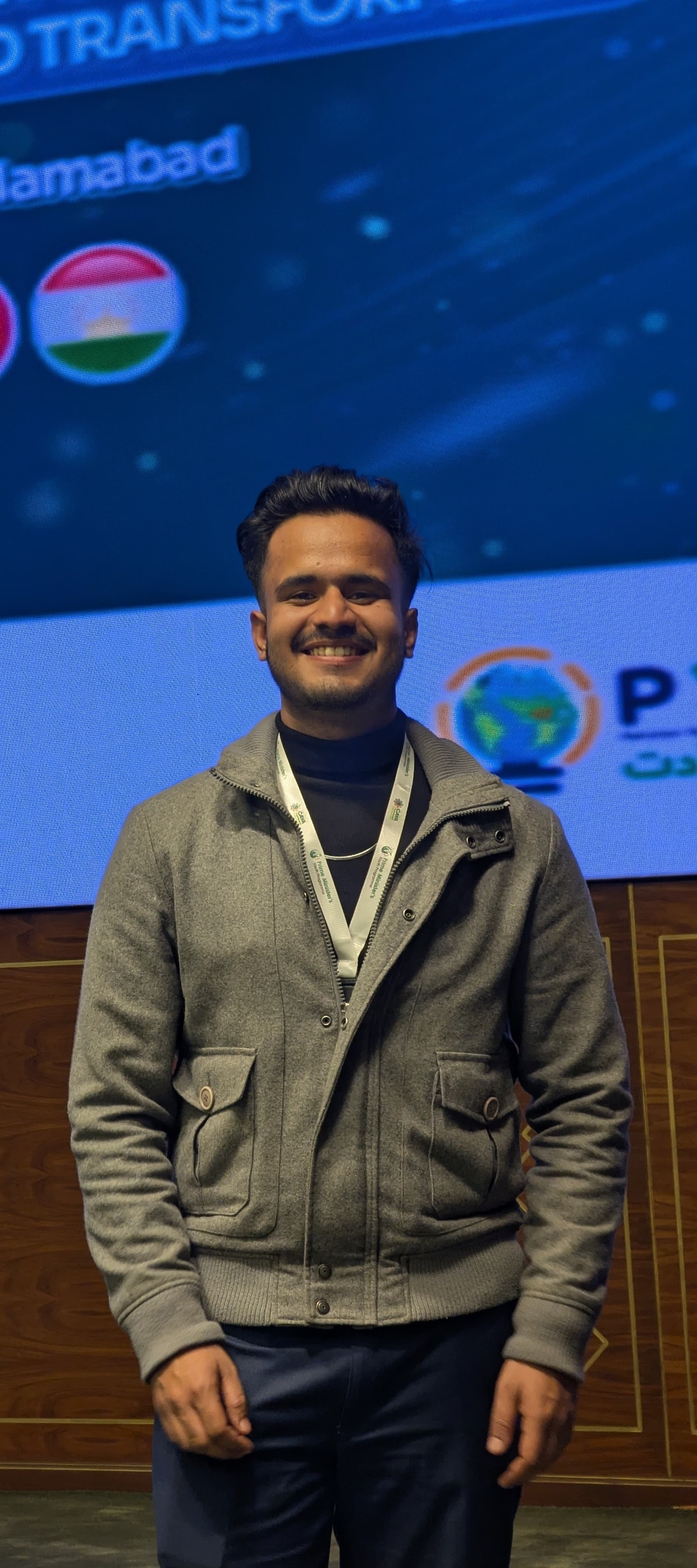
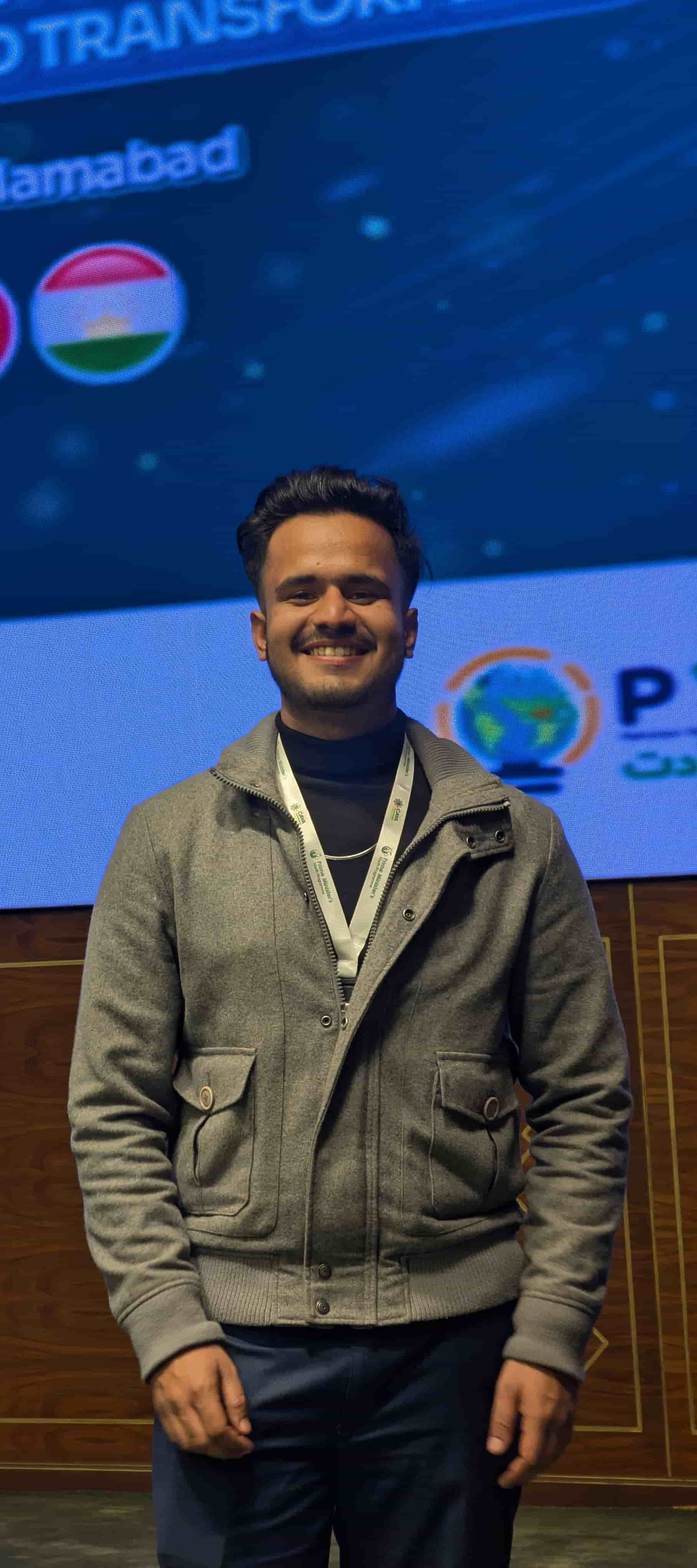
profiles and pictures updated

diff --git a/src/app/components/Navigation.tsx b/src/app/components/Navigation.tsx
@@ -21,16 +21,21 @@ export function Navigation() {
     <nav className="fixed top-0 w-full z-50 bg-black/80 backdrop-blur-md border-b border-white/10">
       <div className="max-w-7xl mx-auto px-6 py-4">
         <div className="flex items-center justify-between">
-
           {/* LOGO — Uses Bz_logo.png from public folder */}
           <Link to="/" className="flex items-center gap-2">
-            <img
-              src="/Bz_logo.png"
-              alt="BinZamurrad Logo"
-              className="w-10 h-10 rounded-full object-cover"
-            />
-            <span className="text-xl font-bold text-white" style={{ fontFamily: "Poppins, sans-serif" }}>
-              BinZamurrad
+            <div className="w-10 h-10 rounded-lg bg-[#0F3D2E] border border-[#C8A96A]/50 flex items-center justify-center">
+              <span
+                className="text-sm font-bold text-[#C8A96A]"
+                style={{ fontFamily: "Poppins, sans-serif" }}
+              >
+                BZ
+              </span>
+            </div>
+            <span
+              className="text-xl font-bold text-white"
+              style={{ fontFamily: "Poppins, sans-serif" }}
+            >
+              Bin<span className="text-[#C8A96A]">Zamurrad</span>
             </span>
           </Link>
 
@@ -40,7 +45,12 @@ export function Navigation() {
               <Link
                 key={link.path}
                 to={link.path}
-                className={"transition-colors " + (isActive(link.path) ? "text-[#C8A96A]" : "text-gray-300 hover:text-white")}
+                className={
+                  "transition-colors " +
+                  (isActive(link.path)
+                    ? "text-[#C8A96A]"
+                    : "text-gray-300 hover:text-white")
+                }
               >
                 {link.name}
               </Link>
@@ -48,7 +58,10 @@ export function Navigation() {
           </div>
 
           {/* MOBILE MENU BUTTON */}
-          <button className="md:hidden text-white" onClick={() => setMobileMenuOpen(!mobileMenuOpen)}>
+          <button
+            className="md:hidden text-white"
+            onClick={() => setMobileMenuOpen(!mobileMenuOpen)}
+          >
             {mobileMenuOpen ? <X size={24} /> : <Menu size={24} />}
           </button>
         </div>
@@ -61,7 +74,12 @@ export function Navigation() {
                 key={link.path}
                 to={link.path}
                 onClick={() => setMobileMenuOpen(false)}
-                className={"block py-2 transition-colors " + (isActive(link.path) ? "text-[#C8A96A]" : "text-gray-300 hover:text-white")}
+                className={
+                  "block py-2 transition-colors " +
+                  (isActive(link.path)
+                    ? "text-[#C8A96A]"
+                    : "text-gray-300 hover:text-white")
+                }
               >
                 {link.name}
               </Link>

diff --git a/src/app/pages/Home.tsx b/src/app/pages/Home.tsx
@@ -91,13 +91,13 @@ export function Home() {
     {
       name: "Meer Ahmad",
       role: "Frontend Developer",
-      image: "/Team/Meer_Ahmad.jpeg",
+      image: "/Team/Meer_Ahmad.jpg",
     },
     { name: "Saud Akbar", role: "AI Engineer", image: "/Team/Saud.jpg" },
     {
       name: "Hafiz M Maaz",
       role: "UI/UX & React Developer",
-      image: "/Team/Maaz.jpeg",
+      image: "/Team/Maaz.jpg",
     },
   ];
 
@@ -107,7 +107,7 @@ export function Home() {
       <section className="relative min-h-screen flex items-center justify-center overflow-hidden">
         <div className="absolute inset-0 z-0">
           <img
-            src="/Hero_pic.png"
+            src="/Hero_pic.jpg"
             alt="Team collaboration"
             className="w-full h-full object-cover object-center"
           />
@@ -122,7 +122,7 @@ export function Home() {
           transition={{ duration: 0.8, ease: "easeOut" }}
         >
           <h1
-            className="text-6xl md:text-8xl mb-6 text-white tracking-tight"
+            className="text-6xl md:text-8xl mb-6 text-white tracking-tight font-bold"
             style={{ fontFamily: "Poppins, sans-serif" }}
           >
             BinZamurrad

diff --git a/src/app/pages/Team.tsx b/src/app/pages/Team.tsx
@@ -39,7 +39,7 @@ export function Team() {
       role: "Frontend Developer",
       bio: "Frontend Developer with expertise in React, TypeScript, CSS, and HTML. Focused on building responsive, modern, and user-friendly web interfaces.",
       skills: ["React", "TypeScript", "CSS", "HTML"],
-      image: "/Team/Meer_Ahmad.jpeg",
+      image: "/Team/Meer_Ahmad.jpg",
       github: "https://github.com/meer407",
       linkedin: "www.linkedin.com/in/meer-ahmad-004b74262",
       email: "meershar786@gmail.com",
@@ -59,7 +59,7 @@ export function Team() {
       role: "UI/UX Designer & React Developer",
       bio: "UI/UX Designer and React Developer with 5+ years of experience. Blends creativity with technical expertise to craft visually stunning and intuitive digital experiences.",
       skills: ["React", "Photoshop", "Figma", "Illustrator"],
-      image: "/Team/Maaz.jpeg",
+      image: "/Team/Maaz.jpg",
       github: "https://github.com/noob-x-coder67",
       linkedin: "https://www.linkedin.com/in/hafiz-muhammad-maaz-b520bb401/",
       email: "mazzkhanmastoi786@gmail.com",
